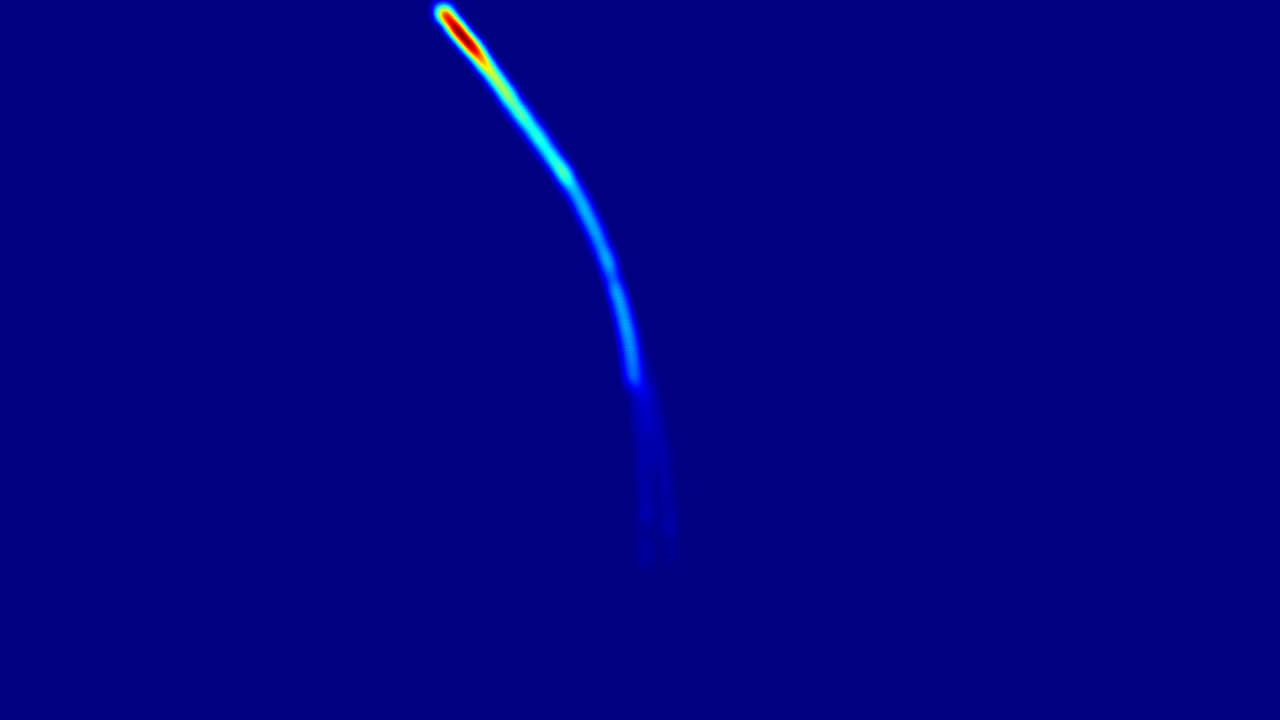
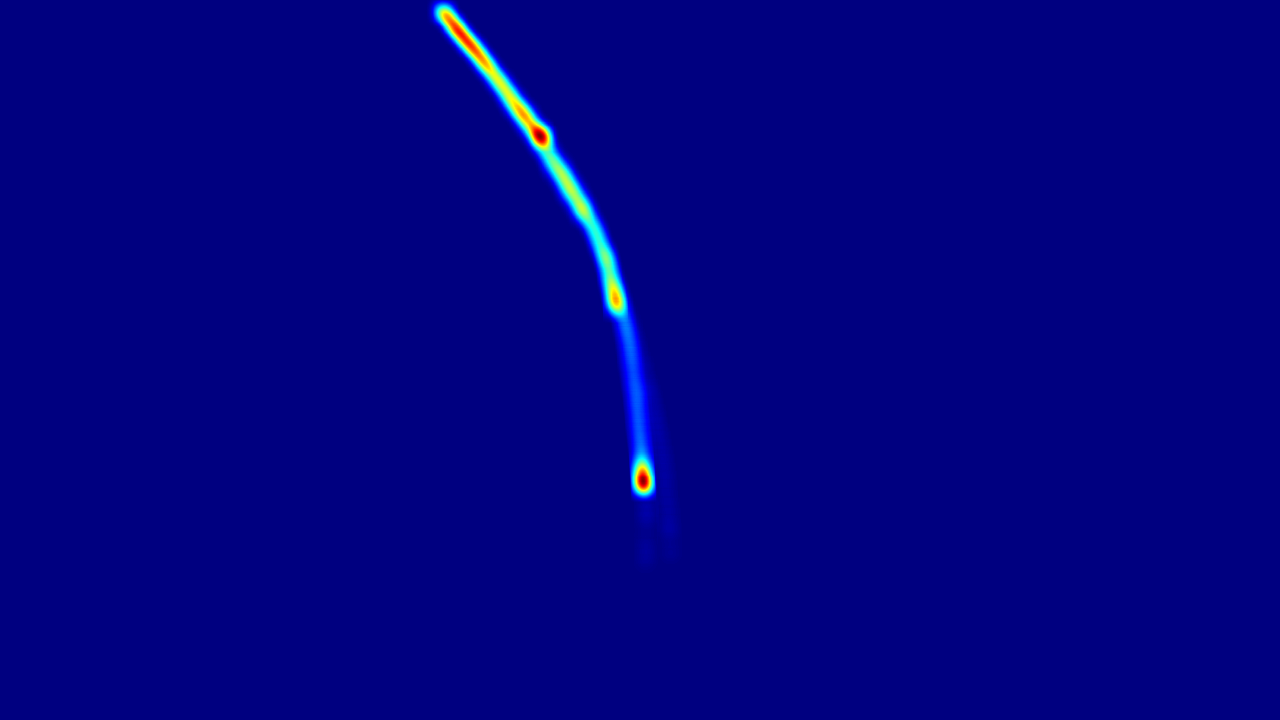
Enhance video streaming performance and management. Update VideoProcessor and DisplayManager to start/stop streaming based on client connections. Improve VideoStreamer with connection tracking and detailed statistics. Update heatmap assets.

Changed region(s): [[0.3125, 0.0, 0.5312, 0.7028]]

diff --git a/backend/utils/video_streamer.py b/backend/utils/video_streamer.py
@@ -29,23 +29,54 @@ class VideoStreamer:
         self.jpeg_quality = Config.STREAMING_JPEG_QUALITY
         self.max_frame_size = Config.STREAMING_MAX_FRAME_SIZE
         
+        # Logging counters
+        self.frames_processed = 0
+        self.frames_sent = 0
+        self.connection_count = 0
+        
+        print("[STREAM] VideoStreamer initialized - ready for WebSocket connections")
+        
     async def connect(self, websocket: WebSocket, client_id: str):
         """Connect a new client to the video stream"""
         await websocket.accept()
         with self.connection_lock:
             self.active_connections[client_id] = websocket
-        print(f"[STREAM] Client {client_id} connected. Total clients: {len(self.active_connections)}")
+            self.connection_count += 1
+            
+            # Start streaming if this is the first client
+            if len(self.active_connections) == 1:
+                print(f"[STREAM] 🚀 First client connected - starting video streaming")
+                self.start_streaming()
+            else:
+                print(f"[STREAM] 📱 Additional client connected - streaming already active")
+                
+        print(f"[STREAM] ✅ Client {client_id} connected. Total clients: {len(self.active_connections)}")
         
     async def disconnect(self, client_id: str):
         """Disconnect a client from the video stream"""
         with self.connection_lock:
             if client_id in self.active_connections:
                 del self.active_connections[client_id]
-        print(f"[STREAM] Client {client_id} disconnected. Total clients: {len(self.active_connections)}")
+                self.connection_count += 1
+                
+                # Stop streaming if no clients are left
+                if len(self.active_connections) == 0:
+                    print(f"[STREAM] 🛑 Last client disconnected - stopping video streaming")
+                    self.stop_streaming()
+                else:
+                    print(f"[STREAM] 📱 Client disconnected - {len(self.active_connections)} clients remaining")
+                    
+        print(f"[STREAM] ❌ Client {client_id} disconnected. Total clients: {len(self.active_connections)}")
             
     def update_frame(self, frame: np.ndarray):
-        """Update the current frame to be streamed - simplified for speed"""
+        """Update the current frame to be streamed - only when clients are connected"""
+        # Only process frames if there are active connections
+        if not self.has_active_connections():
+            return
+            
         try:
+            self.frames_processed += 1
+            
             # Simple resize without complex processing
             frame = self._quick_resize(frame)
             
@@ -53,9 +84,13 @@ class VideoStreamer:
             while not self.frame_queue.empty():
                 self.frame_queue.get_nowait()
             self.frame_queue.put_nowait(frame)
+            
+            # Log every 100 frames for performance monitoring
+            if self.frames_processed % 100 == 0:
+                print(f"[STREAM] 📊 Processed {self.frames_processed} frames, sent {self.frames_sent} frames to {len(self.active_connections)} clients")
                     
         except Exception as e:
-            print(f"[STREAM] Error updating frame: {e}")
+            print(f"[STREAM] ❌ Error updating frame: {e}")
             
     def _quick_resize(self, frame: np.ndarray) -> np.ndarray:
         """Quick resize for maximum speed"""
@@ -76,18 +111,24 @@ class VideoStreamer:
             self.streaming_active = True
             self.streaming_thread = threading.Thread(target=self._streaming_loop, daemon=True)
             self.streaming_thread.start()
-            print("[STREAM] Video streaming started")
+            print(f"[STREAM] 🎬 Video streaming started - thread ID: {self.streaming_thread.ident}")
+        else:
+            print(f"[STREAM] ⚠ Streaming already active - ignoring start request")
             
     def stop_streaming(self):
         """Stop the video streaming loop"""
-        self.streaming_active = False
-        if self.streaming_thread:
-            self.streaming_thread.join(timeout=0.5)
-        print("[STREAM] Video streaming stopped")
+        if self.streaming_active:
+            self.streaming_active = False
+            if self.streaming_thread:
+                self.streaming_thread.join(timeout=0.5)
+            print(f"[STREAM] 🛑 Video streaming stopped - processed {self.frames_processed} frames, sent {self.frames_sent} frames")
+        else:
+            print(f"[STREAM] ⚠ Streaming not active - ignoring stop request")
         
     def _streaming_loop(self):
         """Ultra-fast streaming loop"""
         frame_count = 0
+        print(f"[STREAM] 🔄 Streaming loop started - thread ID: {threading.current_thread().ident}")
         
         while self.streaming_active:
             try:
@@ -106,6 +147,8 @@ class VideoStreamer:
                     encoded_frame = self._fast_encode(frame)
                     
                     if encoded_frame:
+                        self.frames_sent += 1
+                        
                         # Prepare message
                         message = {
                             "type": "frame",
@@ -116,12 +159,18 @@ class VideoStreamer:
                         
                         # Broadcast immediately
                         asyncio.run(self._broadcast_message(json.dumps(message)))
+                        
+                        # Log every 50 frames for performance monitoring
+                        if self.frames_sent % 50 == 0:
+                            print(f"[STREAM] 📡 Sent {self.frames_sent} frames to {len(self.active_connections)} clients")
                 
                 # No sleep for maximum speed
                 
             except Exception as e:
-                print(f"[STREAM] Error in streaming loop: {e}")
+                print(f"[STREAM] ❌ Error in streaming loop: {e}")
                 time.sleep(0.001)  # Minimal error recovery
+                
+        print(f"[STREAM] 🔄 Streaming loop ended - processed {frame_count} frames")
                 
     def _fast_encode(self, frame: np.ndarray) -> str:
         """Ultra-fast frame encoding"""
@@ -146,10 +195,12 @@ class VideoStreamer:
                 try:
                     await websocket.send_text(message)
                 except Exception as e:
+                    print(f"[STREAM] ❌ Failed to send to client {client_id}: {e}")
                     disconnected_clients.append(client_id)
                     
         # Clean up disconnected clients
         for client_id in disconnected_clients:
+            print(f"[STREAM] 🧹 Cleaning up disconnected client: {client_id}")
             await self.disconnect(client_id)
             
     def get_connection_count(self) -> int:
@@ -158,15 +209,41 @@ class VideoStreamer:
             return len(self.active_connections)
             
     def get_stats(self) -> dict:
-        """Get streaming statistics"""
-        return {
-            "active_connections": self.get_connection_count(),
-            "streaming_active": self.streaming_active,
-            "queue_size": self.frame_queue.qsize(),
-            "frame_skip": self.frame_skip,
-            "jpeg_quality": self.jpeg_quality,
-            "frame_size": self.max_frame_size
-        }
+        """Get comprehensive streaming statistics"""
+        with self.connection_lock:
+            return {
+                "streaming_active": self.streaming_active,
+                "active_connections": len(self.active_connections),
+                "total_connections": self.connection_count,
+                "frames_processed": self.frames_processed,
+                "frames_sent": self.frames_sent,
+                "queue_size": self.frame_queue.qsize(),
+                "frame_skip": self.frame_skip,
+                "jpeg_quality": self.jpeg_quality,
+                "frame_size": self.max_frame_size,
+                "thread_id": self.streaming_thread.ident if self.streaming_thread else None,
+                "client_ids": list(self.active_connections.keys())
+            }
+    
+    def print_status(self):
+        """Print current streaming status to console"""
+        stats = self.get_stats()
+        print(f"\n[STREAM] 📊 Streaming Status Report:")
+        print(f"  🎬 Streaming Active: {stats['streaming_active']}")
+        print(f"  👥 Active Connections: {stats['active_connections']}")
+        print(f"  📈 Total Connections: {stats['total_connections']}")
+        print(f"  🎞 Frames Processed: {stats['frames_processed']}")
+        print(f"  📡 Frames Sent: {stats['frames_sent']}")
+        print(f"  📦 Queue Size: {stats['queue_size']}")
+        print(f"  🔧 Thread ID: {stats['thread_id']}")
+        if stats['client_ids']:
+            print(f"  👤 Connected Clients: {', '.join(stats['client_ids'])}")
+        print()
+
+    def has_active_connections(self) -> bool:
+        """Check if there are any active connections."""
+        with self.connection_lock:
+            return bool(self.active_connections)
 
 # Global instance
 video_streamer = VideoStreamer()

diff --git a/backend/core/video_processor.py b/backend/core/video_processor.py
@@ -92,8 +92,8 @@ class VideoProcessor:
         # Setup frame generator
         self.frame_gen = sv.get_video_frames_generator(source_path=self.video_path)
         
-        # Start video streaming for web clients
-        self.display_manager.start_streaming()
+        # Video streaming will start automatically when first WebSocket client connects
+        # No need to start it here for better performance
         
         print(f"[INFO] Frame skip: {self.frame_skip} (for better responsiveness in local mode)")
         print(f"[INFO] Processing frame skip: {Config.PROCESSING_FRAME_SKIP} (for better performance)")
@@ -284,7 +284,9 @@ class VideoProcessor:
         
         # Cleanup
         self.device_manager.clear_gpu_memory()
-        self.display_manager.stop_streaming()
+        # Stop streaming only if it's active (when clients were connected)
+        if self.display_manager.streaming_active:
+            self.display_manager.stop_streaming()
         self.display_manager.cleanup()
         
         if shutdown_manager.check_shutdown():

diff --git a/backend/utils/display_manager.py b/backend/utils/display_manager.py
@@ -67,14 +67,14 @@ class DisplayManager:
             print(f"[INFO] FPS: {fps:.2f}")
     
     def start_streaming(self):
-        """Start video streaming to web clients"""
+        """Start video streaming to web clients - only when clients connect"""
         if not self.streaming_active:
             video_streamer.start_streaming()
             self.streaming_active = True
             print("[INFO] Video streaming started for web clients")
             
     def stop_streaming(self):
-        """Stop video streaming to web clients"""
+        """Stop video streaming to web clients - when no clients are connected"""
         if self.streaming_active:
             video_streamer.stop_streaming()
             self.streaming_active = False
